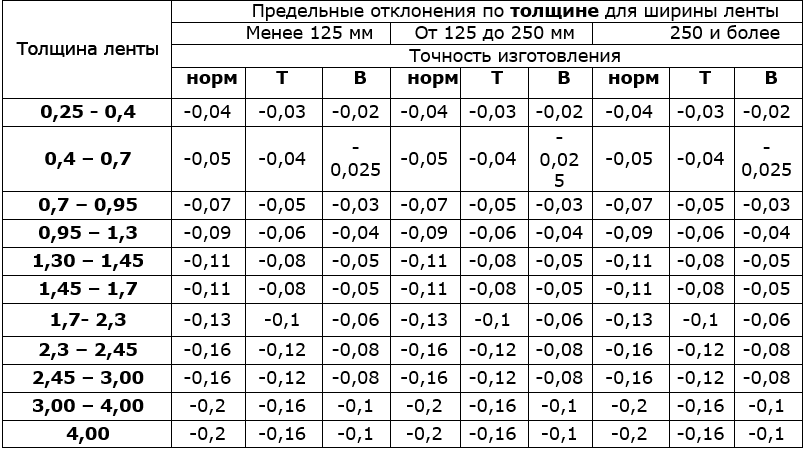
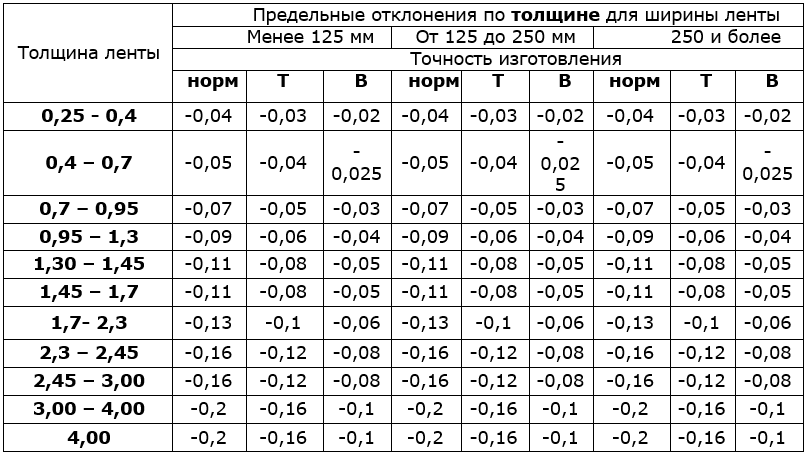
gosts

Changed region(s): [[0.0, 0.0, 1.0, 0.9956], [0.0311, 0.3422, 0.1866, 0.3733]]

diff --git a/src/App.js b/src/App.js
@@ -5,7 +5,7 @@ import React from 'react';
 function App() {
   const [todo,setTodo] = React.useState([
                   {title:"Гост 503-81", 
-                  text:<img src="/img/503-81.png" />},
+                  text:<div><img className="gost-503-81" src="/img/503-81.png" /></div>},
                   {title:"Гост 7566-94",
                    text:<div><p>Примечание - При пользовании настоящим стандартом целесообразно проверить действие ссылочных стандартов в информационной системе общего пользования - на официальном сайте Федерального агентства по техническому регулированию и метрологии в сети</p> <br/><p className='p-margin-top'>Интернет или по ежегодному информационному указателю "Национальные стандарты", который опубликован по состоянию на 1 января текущего года, и по выпускам</p></div>},
                   {title:"Гост 14350-69",

diff --git a/src/test.scss b/src/test.scss
@@ -26,8 +26,9 @@
   }
     
     .main{ 
-      img{
-        width: 100%;
+      .gost-503-81{
+        margin-top: 15px;
+        width: 100%; 
       }
       .main__block-search{
         display: flex;
@@ -72,6 +73,7 @@
       }
       details{
         margin-left: 10px;
+        margin-right: 10px;
       }
       summary{
         list-style: none;
